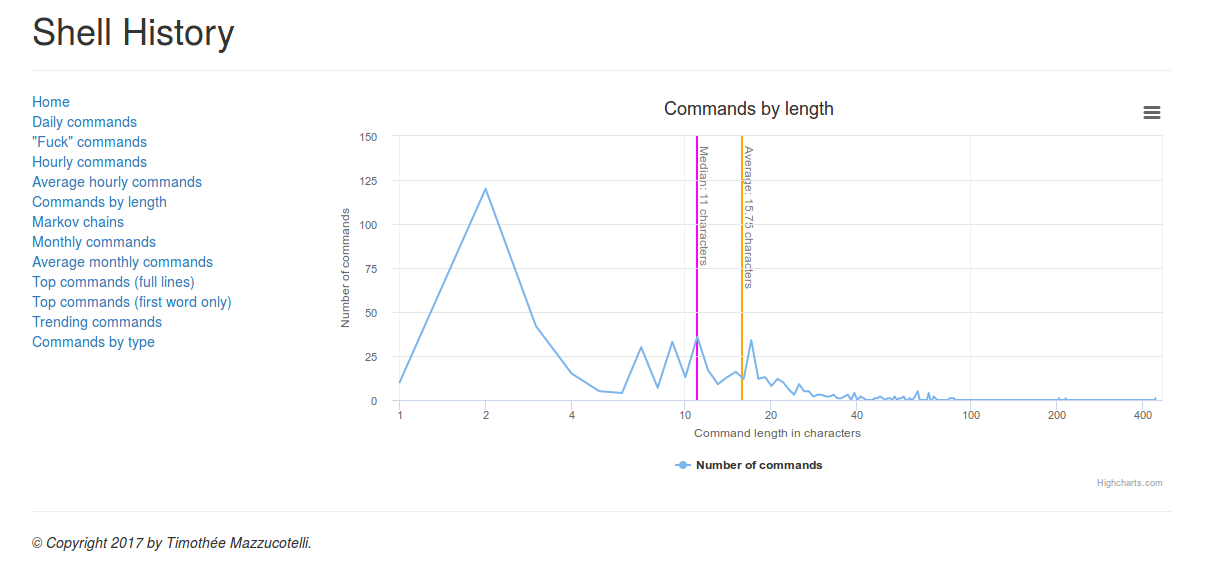
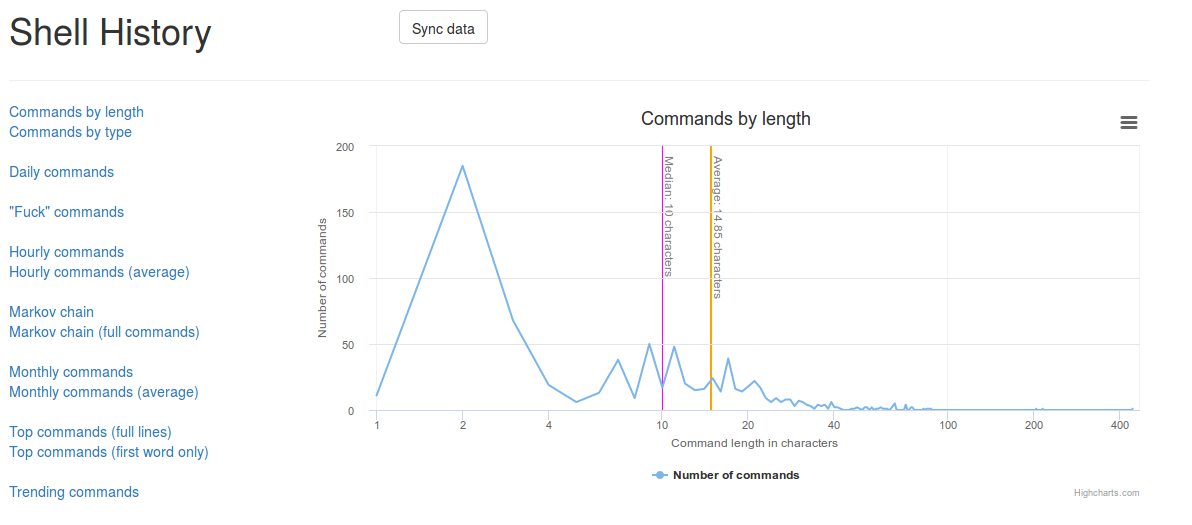
Implement markov, fix average-hourly decimals truncate, update README

diff --git a/templates/home.html b/templates/home.html
@@ -2,7 +2,7 @@
 <html>
   <head>
     {% block head %}
-    <!-- <link rel="stylesheet" href="{{ url_for('static', filename='style.css') }}"> -->
+    <link rel="stylesheet" href="static/css/home.css">
     <title>{% block title %}Home{% endblock %}</title>
     <link href="https://maxcdn.bootstrapcdn.com/bootstrap/3.3.7/css/bootstrap.min.css" rel="stylesheet"></link>
     <script src="http://code.jquery.com/jquery-3.2.1.min.js"></script>
@@ -49,19 +49,27 @@
         <div class="row">
           <div class="col-md-3">
             <ul class="list-unstyled">
-              <li><a href="/">Home</a></li>
-              <li><a href="/daily">Daily commands</a></li>
-              <li><a href="/fuck">"Fuck" commands</a></li>
-              <li><a href="/hourly">Hourly commands</a></li>
-              <li><a href="/hourly_average">Average hourly commands</a></li>
+              <!-- <li><a href="/">Home</a></li> -->
               <li><a href="/length">Commands by length</a></li>
-              <li><a href="/markov">Markov chains</a></li>
+              <li><a href="/type">Commands by type</a></li>
+              <li><br></li>
+              <li><a href="/daily">Daily commands</a></li>
+              <li><br></li>
+              <li><a href="/fuck">"Fuck" commands</a></li>
+              <li><br></li>
+              <li><a href="/hourly">Hourly commands</a></li>
+              <li><a href="/hourly_average">Hourly commands (average)</a></li>
+              <li><br></li>
+              <li><a href="/markov">Markov chain</a></li>
+              <li><a href="/markov_full">Markov chain (full commands)</a></li>
+              <li><br></li>
               <li><a href="/monthly">Monthly commands</a></li>
-              <li><a href="/monthly_average">Average monthly commands</a></li>
+              <li><a href="/monthly_average">Monthly commands (average)</a></li>
+              <li><br></li>
               <li><a href="/top_commands_full">Top commands (full lines)</a></li>
               <li><a href="/top_commands">Top commands (first word only)</a></li>
+              <li><br></li>
               <li><a href="/trending">Trending commands</a></li>
-              <li><a href="/type">Commands by type</a></li>
             </ul>
           </div>
           <div class="col-md-9">

diff --git a/templates/markov_full.html b/templates/markov_full.html
@@ -1,9 +1,9 @@
 {% extends "home.html" %}
 
-{% block title %}Markov chains{% endblock %}
+{% block title %}Markov chains (full commands){% endblock %}
 
 {% block content %}
   <script src="https://code.highcharts.com/modules/heatmap.js"></script>
-  <script src="static/js/markov.js"></script>
+  <script src="static/js/markov_full.js"></script>
   <div id="container" style="min-width: 310px; height: 650px; margin: 0 auto"></div>
 {% endblock %}

diff --git a/static/js/markov_full.js b/static/js/markov_full.js
@@ -1,6 +1,6 @@
 $(document).ready(function() {
 
-  $.getJSON('/markov_json', function(data) {
+  $.getJSON('/markov_full_json', function(data) {
 
     Highcharts.chart('container', {
 
@@ -12,7 +12,7 @@ $(document).ready(function() {
         },
 
         title: {
-            text: 'Markov chain'
+            text: 'Markov chain (full commands)'
         },
 
         xAxis: {

diff --git a/static/css/home.css b/static/css/home.css
@@ -1,0 +1,3 @@
+footer {
+  margin-bottom: 20px;
+}

diff --git a/app.py b/app.py
@@ -92,6 +92,11 @@ def markov_view():
     return render_template('markov.html')
 
 
+@app.route('/markov_full')
+def markov_full_view():
+    return render_template('markov_full.html')
+
+
 @app.route('/monthly')
 def monthly_view():
     return render_template('monthly.html')
@@ -158,7 +163,7 @@ def hourly_average_json():
             extract('hour', db.History.start).label('hour'),
             func.count('hour')
         ).group_by('hour').all())
-    data = [results[hour] / number_of_days for hour in range(0, 24)]
+    data = [float('%.2f' % (results[hour] / number_of_days)) for hour in range(0, 24)]
     return jsonify(data)
 
 
@@ -190,13 +195,49 @@ def length_json():
 def markov_json():
     words_2 = []
     w1 = w2 = None
-    for word in session.query(db.History.cmd).order_by(db.History.start).all():
+    words = session.query(db.History.cmd).order_by(db.History.start).all()
+    for word in words:
+        w1, w2 = w2, word[0].split(' ')[0]
+        words_2.append((w1, w2))
+    counter = Counter(words_2).most_common(40)
+    unique_words = set()
+    for (w1, w2), count in counter:
+        unique_words.add(w1)
+        unique_words.add(w2)
+    unique_words = list(unique_words)
+    data = {
+        'xCategories': unique_words,
+        'yCategories': unique_words,
+        'series': [
+            [unique_words.index(w2), unique_words.index(w1), count]
+            for (w1, w2), count in counter
+        ]
+    }
+    return jsonify(data)
+
+
+@app.route('/markov_full_json')
+def markov_full_json():
+    words_2 = []
+    w1 = w2 = None
+    words = session.query(db.History.cmd).order_by(db.History.start).all()
+    for word in words:
         w1, w2 = w2, word[0]
         words_2.append((w1, w2))
-    counter = Counter(words_2)
-    sorted_counter = sorted(
-        (k, v) for k, v in counter.items() if v > 1,
-        key=lambda x: x[1], reverse=True)
+    counter = Counter(words_2).most_common(40)
+    unique_words = set()
+    for (w1, w2), count in counter:
+        unique_words.add(w1)
+        unique_words.add(w2)
+    unique_words = list(unique_words)
+    data = {
+        'xCategories': unique_words,
+        'yCategories': unique_words,
+        'series': [
+            [unique_words.index(w2), unique_words.index(w1), count]
+            for (w1, w2), count in counter
+        ]
+    }
     return jsonify(data)
 
 

diff --git a/README.md b/README.md
@@ -77,6 +77,8 @@ cd /path/to/shellhistory || exit 1
 
 ## How it looks
 ![length chart](pictures/length.png)
+![markov chart](pictures/markov.png)
+![hourly chart](pictures/hourly.png)
 
 ## How it works
 In order to append a line each time a command is entered, the `PROMPT_COMMAND`
